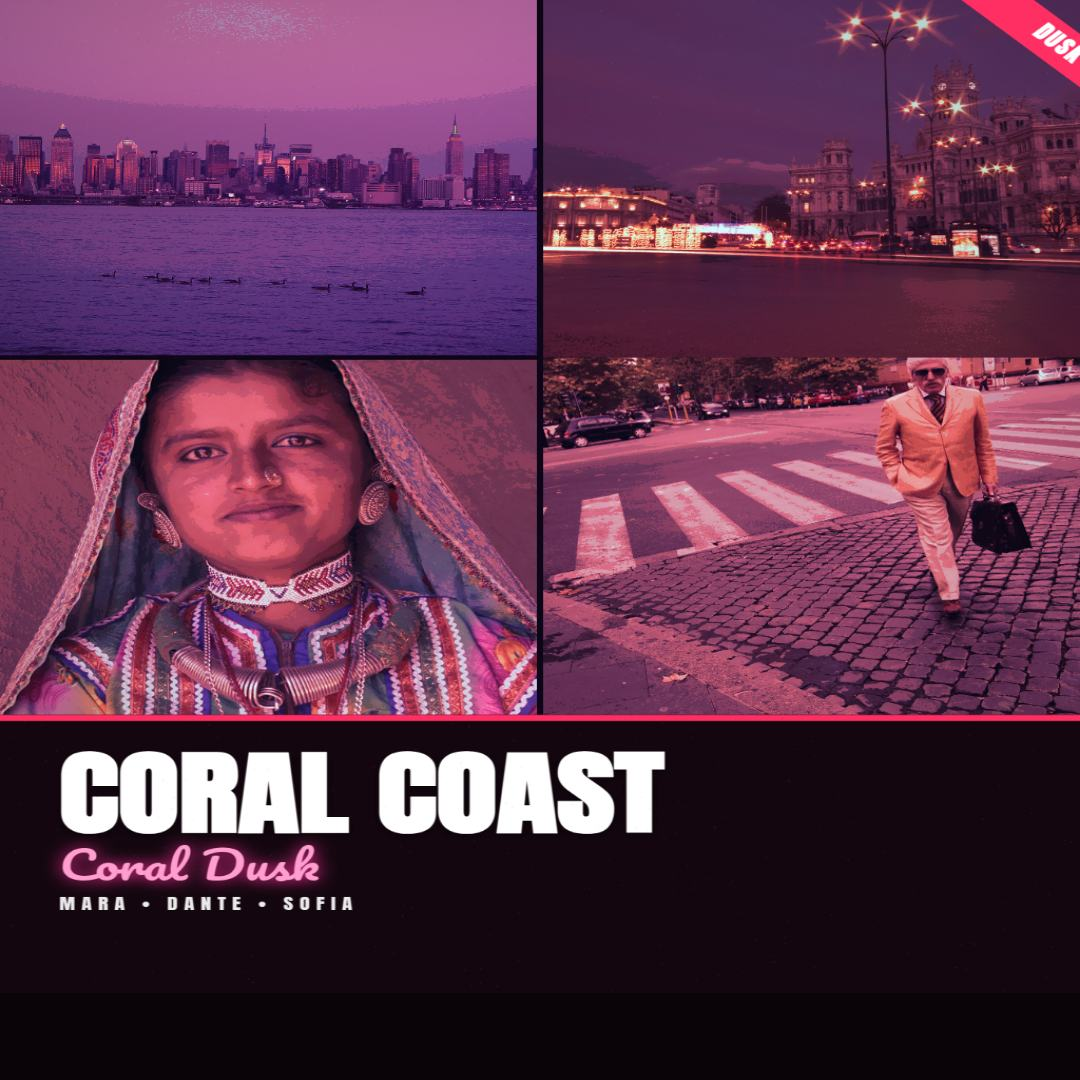
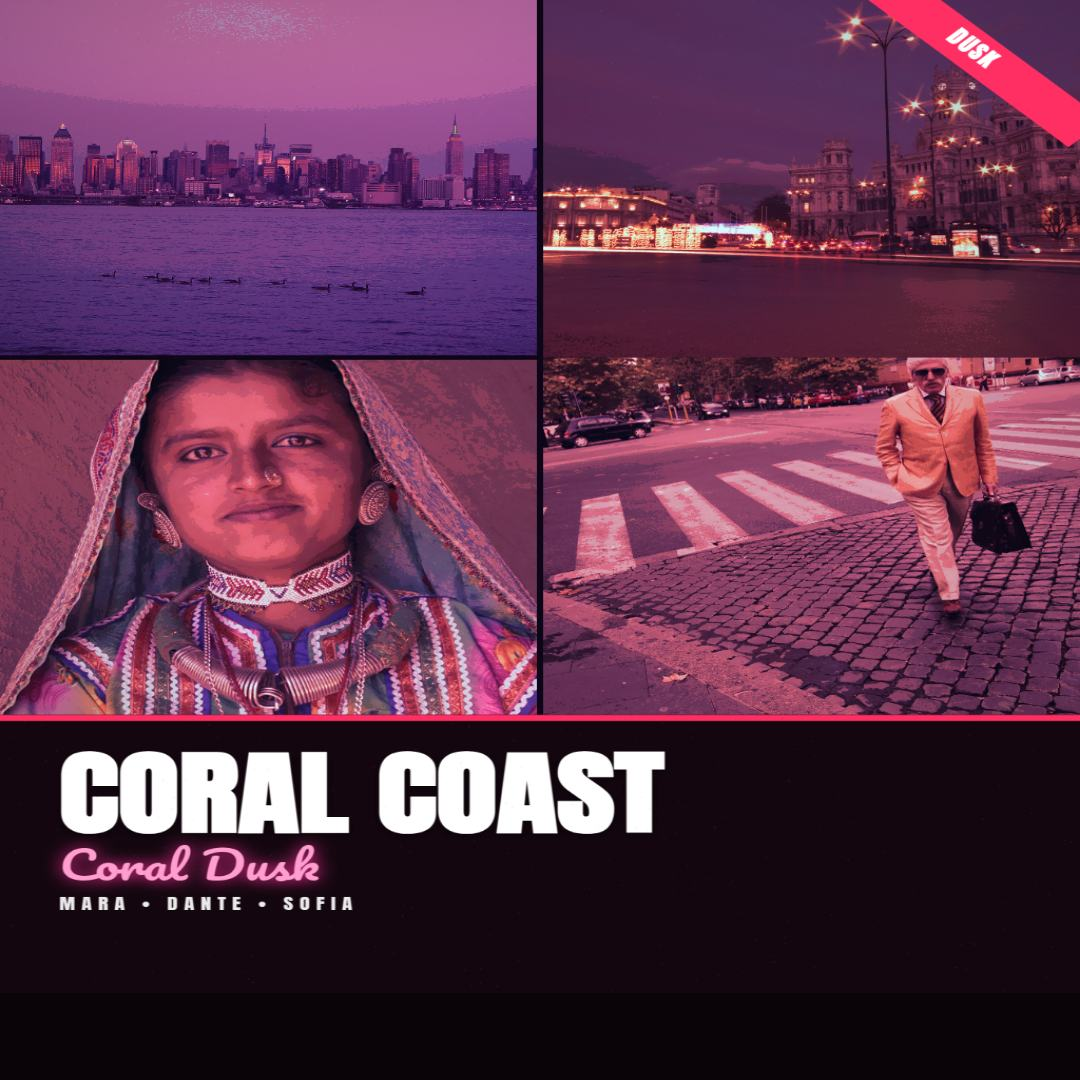
Fix ribbon position — 'DUSK' fully visible on every cover (centre moved in to 0.90W, band narrowed to 0.30W; was clipped to 'DUS' at the right edge)

Changed region(s): [[0.7944, 0.0, 1.0, 0.1528]]

diff --git a/app/cover.js b/app/cover.js
@@ -253,9 +253,12 @@
   function drawRibbon(ctx, W, H) {
     var text = 'DUSK';
     ctx.save();
-    ctx.translate(W - W * 0.02, H * 0.045);
+    // Ribbon centre pulled well inside the corner (0.90W, 0.05H) so the
+    // whole word stays on canvas: at 0.98W the last letter was clipped
+    // off the right edge. Band still bleeds off the corner, classic look.
+    ctx.translate(W * 0.90, H * 0.05);
     ctx.rotate(Math.PI / 4);
-    var bw = W * 0.34, bh = Math.max(26, H * 0.038);
+    var bw = W * 0.30, bh = Math.max(26, H * 0.038);
     ctx.fillStyle = '#ff2e63';
     ctx.fillRect(-bw / 2, -bh / 2, bw, bh);
     ctx.fillStyle = '#ffffff';
